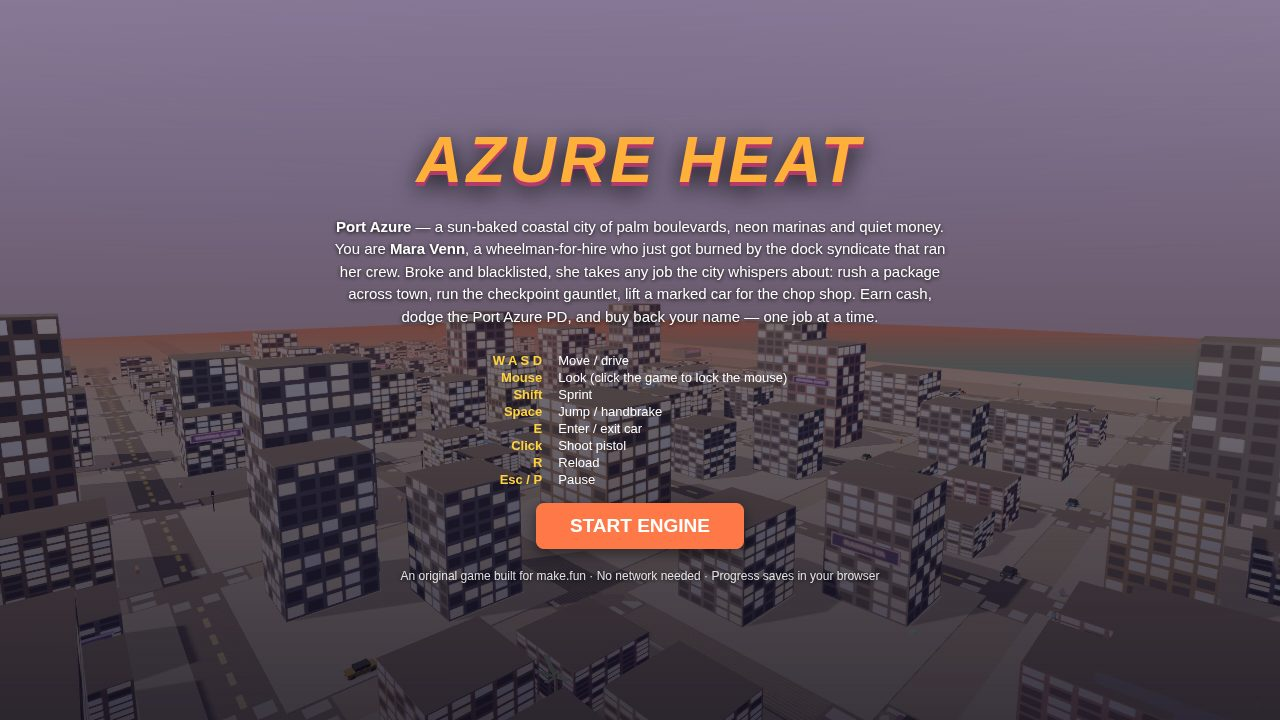
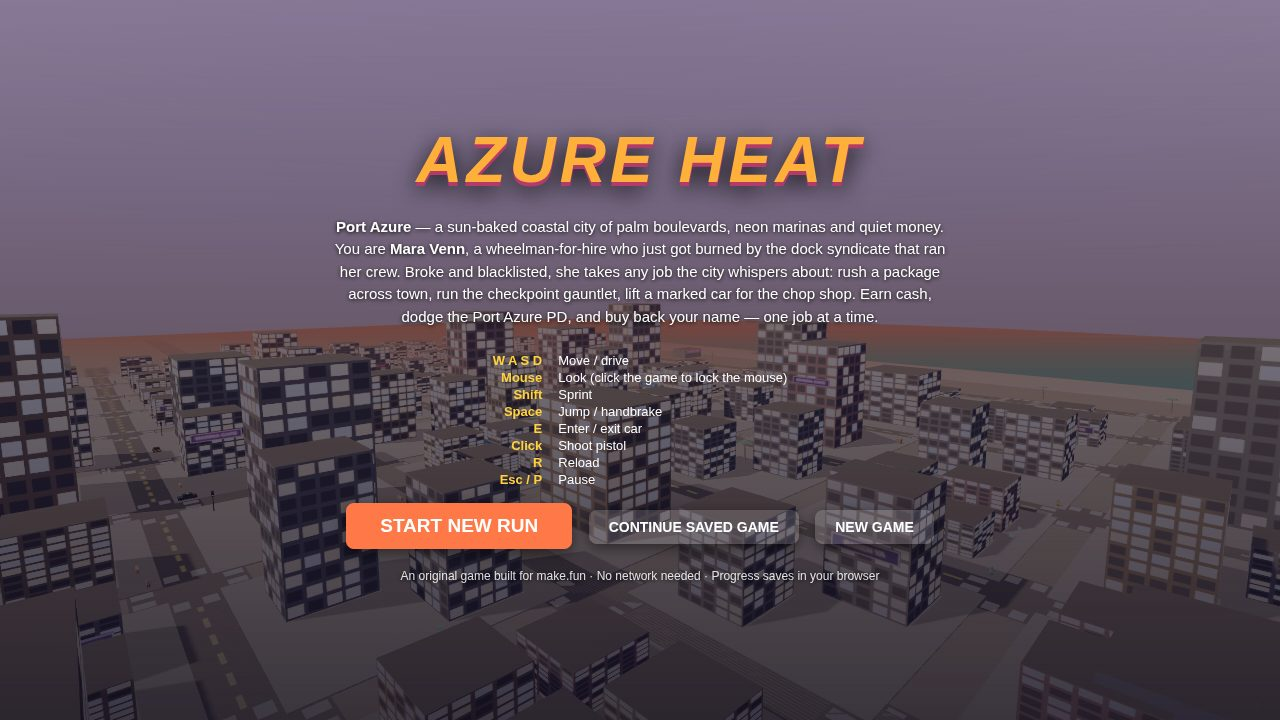
Polish pass: performance, pointer-lock hardening, final screenshots
- Palm crowns are two crossed flattened cones (2 draw calls instead of 7 per
  palm, ~60 palms); traffic lights on a checkerboard subset of junctions;
  traffic count 12. Play-view draw calls drop to ~800.
- requestPointerLock rejections (synthetic/screenshot clicks) are caught so
  they never surface as page errors.
- Water plane raised above the base ground plane (it was hidden under it);
  end-shot staging moved Mara + the GT onto the coast road, clear of the
  beach pavilions; play-shot chase reframed on the road ahead of the hero
  car so both interceptors stay in frame.
- Screenshots re-captured from the final build.
Verified: 60s virtual chase (wanted scales to 5 stars, police to 6 units,
zero console errors), enter/drive/exit, WASTED respawn with fine, full
PACKAGE RUN completion paying out, pause/resume — all clean headless.

Changed region(s): [[0.25, 0.6722, 0.75, 0.7639], [0.25, 0.9167, 0.3125, 0.9472], [0.125, 0.6722, 0.1562, 0.7028]]

diff --git a/game/src/world.js b/game/src/world.js
@@ -244,21 +244,19 @@ AH.buildPalmsAndLamps = function (scene) {
   var trunkMat = new THREE.MeshStandardMaterial({ color: 0x8a6a45, roughness: 1 });
   var frondMat = new THREE.MeshStandardMaterial({ color: 0x2e8b57, roughness: 1, side: THREE.DoubleSide });
   var trunkGeo = new THREE.CylinderGeometry(0.22, 0.34, 6.5, 6);
-  var frondGeo = new THREE.BoxGeometry(0.55, 0.06, 3.6);
+  // The crown is two flattened cones crossed at an angle: reads as a palm starburst from any
+  // distance for 2 draw calls instead of one per frond (there are ~60 palms in the city).
+  var crownGeo = new THREE.ConeGeometry(2.6, 1.15, 8);
   function palm(x, z) {
     var g = new THREE.Group();
     var trunk = new THREE.Mesh(trunkGeo, trunkMat);
     trunk.position.y = 3.25; trunk.rotation.z = AH.randRange(-0.08, 0.08); trunk.castShadow = true; g.add(trunk);
-    for (var i = 0; i < 6; i++) {
-      // Each frond is a thin leaf on a pivot at the crown, yawed around and drooped down.
-      var pivot = new THREE.Group();
-      pivot.position.y = 6.5;
-      pivot.rotation.y = (i / 6) * Math.PI * 2 + AH.randRange(-0.2, 0.2);
-      var f = new THREE.Mesh(frondGeo, frondMat);
-      f.position.set(0, 0.15, 1.7);
-      f.rotation.x = -0.42; // tip droops below horizontal
-      pivot.add(f);
-      g.add(pivot);
+    for (var i = 0; i < 2; i++) {
+      var crown = new THREE.Mesh(crownGeo, frondMat);
+      crown.position.y = 6.55;
+      crown.rotation.y = i * 0.4 + AH.randRange(-0.2, 0.2);
+      crown.scale.y = 0.55;
+      g.add(crown);
     }
     g.position.set(x, 0, z);
     scene.add(g);
@@ -304,6 +302,7 @@ AH.buildTrafficLights = function (scene) {
   var boxGeo = new THREE.BoxGeometry(0.55, 1.5, 0.55);
   var bulbGeo = new THREE.SphereGeometry(0.19, 8, 8);
   for (var ix = -2; ix <= 2; ix++) for (var iz = -2; iz <= 2; iz++) {
+    if ((ix + iz) % 2 !== 0) continue; // checkerboard subset: every other junction gets a light
     var g = new THREE.Group();
     var pole = new THREE.Mesh(poleGeo, poleMat); pole.position.y = 2.2; g.add(pole);
     var box = new THREE.Mesh(boxGeo, boxMat); box.position.y = 4.9; g.add(box);

diff --git a/game/src/main.js b/game/src/main.js
@@ -64,6 +64,16 @@ function showScreen(id) {
   });
   document.getElementById('hud').style.display = id ? 'none' : 'block';
 }
+// Pointer lock, hardened: Chrome returns a promise that rejects without a real user
+// gesture (synthetic clicks, screenshot harnesses) — that rejection must never surface.
+AH.lockPointer = function () {
+  var c = document.getElementById('game');
+  if (!c.requestPointerLock) return;
+  try {
+    var r = c.requestPointerLock();
+    if (r && r.catch) r.catch(function () {});
+  } catch (e) { /* not critical: the game still plays, mouse look just waits for a click */ }
+};
 function startPlay(fromSave) {
   AH.audio.init();
   var S = AH.state;
@@ -76,7 +86,7 @@ function startPlay(fromSave) {
       AH.player.pos.set(save.x || 6, 0, save.z || (AH.roadAt(2) + 4));
     }
   }
-  if (!SHOT) document.getElementById('game').requestPointerLock && document.getElementById('game').requestPointerLock();
+  if (!SHOT) AH.lockPointer();
   AH.hudToast('Welcome to Port Azure, Mara.', '#ffd23e');
 }
 AH.gameOver = function (kind) {
@@ -154,7 +164,7 @@ function bindInput() {
   });
   window.addEventListener('mousedown', function (e) {
     if (AH.state.mode !== 'play') return;
-    if (!pointerLocked && !SHOT) { document.getElementById('game').requestPointerLock(); return; }
+    if (!pointerLocked && !SHOT) { AH.lockPointer(); return; }
     if (e.button === 0) shoot();
   });
   document.getElementById('startBtn').addEventListener('click', function () { startPlay(false); });

diff --git a/game/src/vehicles.js b/game/src/vehicles.js
@@ -98,7 +98,7 @@ AH.placeParkedCars = function (scene) {
 // Traffic: cars that cruise the grid in the right-hand lane, turn at intersections,
 // and stop for red lights and for the car ahead.
 AH.placeTraffic = function (scene) {
-  for (var i = 0; i < 14; i++) {
+  for (var i = 0; i < 12; i++) {
     var vertical = AH.rand() < 0.5;
     var road = AH.roadAt(AH.randInt(-AH.GRID, AH.GRID));
     var along = AH.randRange(-AH.CITY / 2, AH.CITY / 2);
